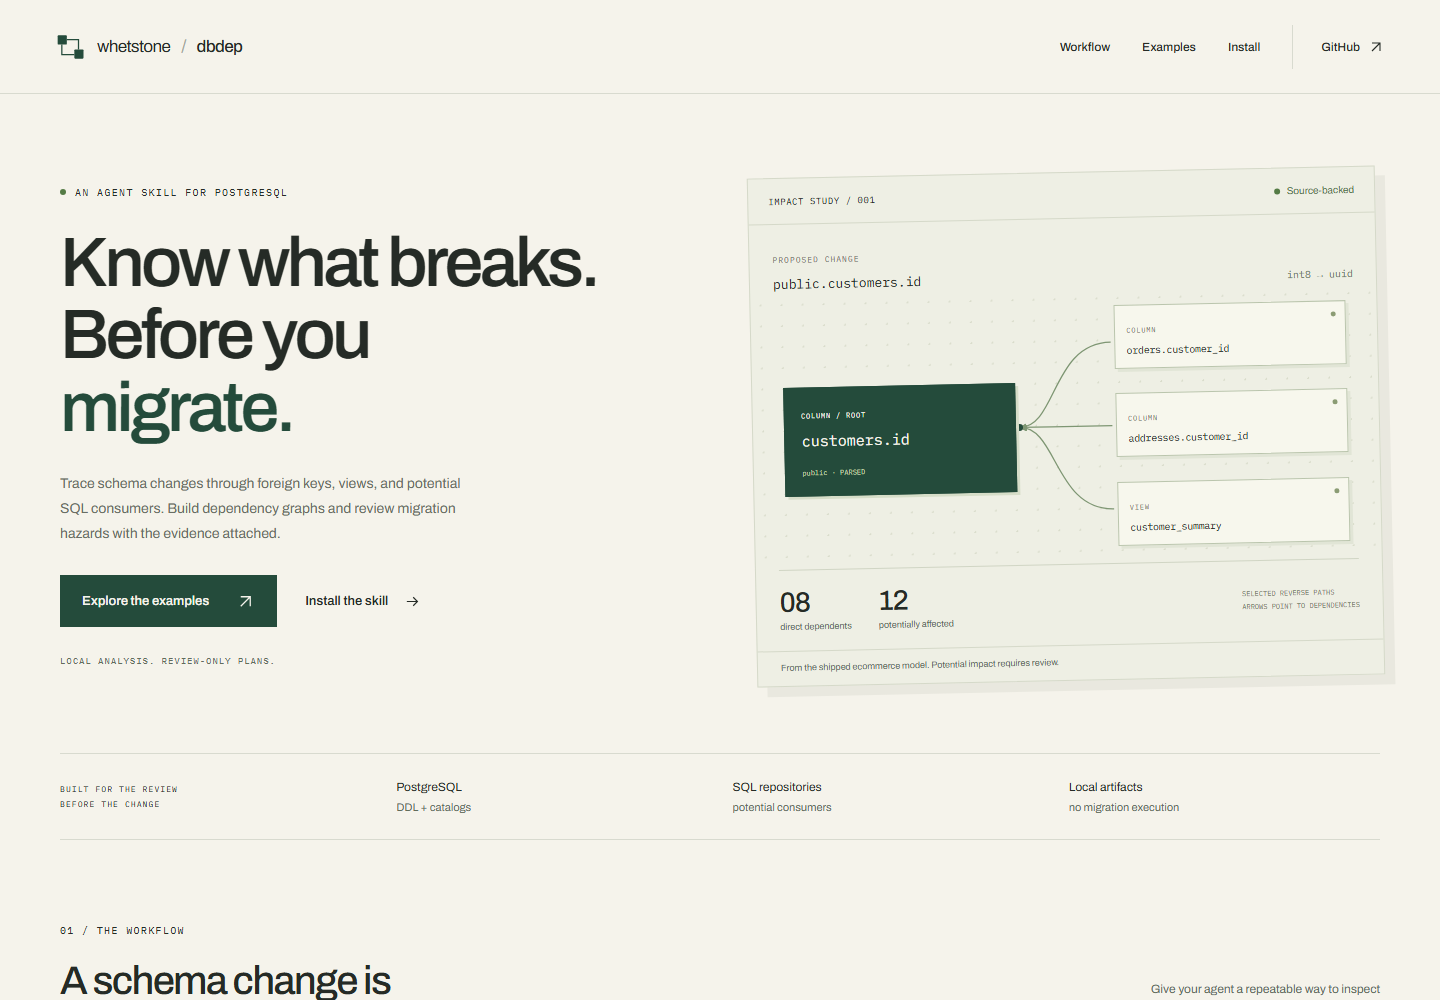
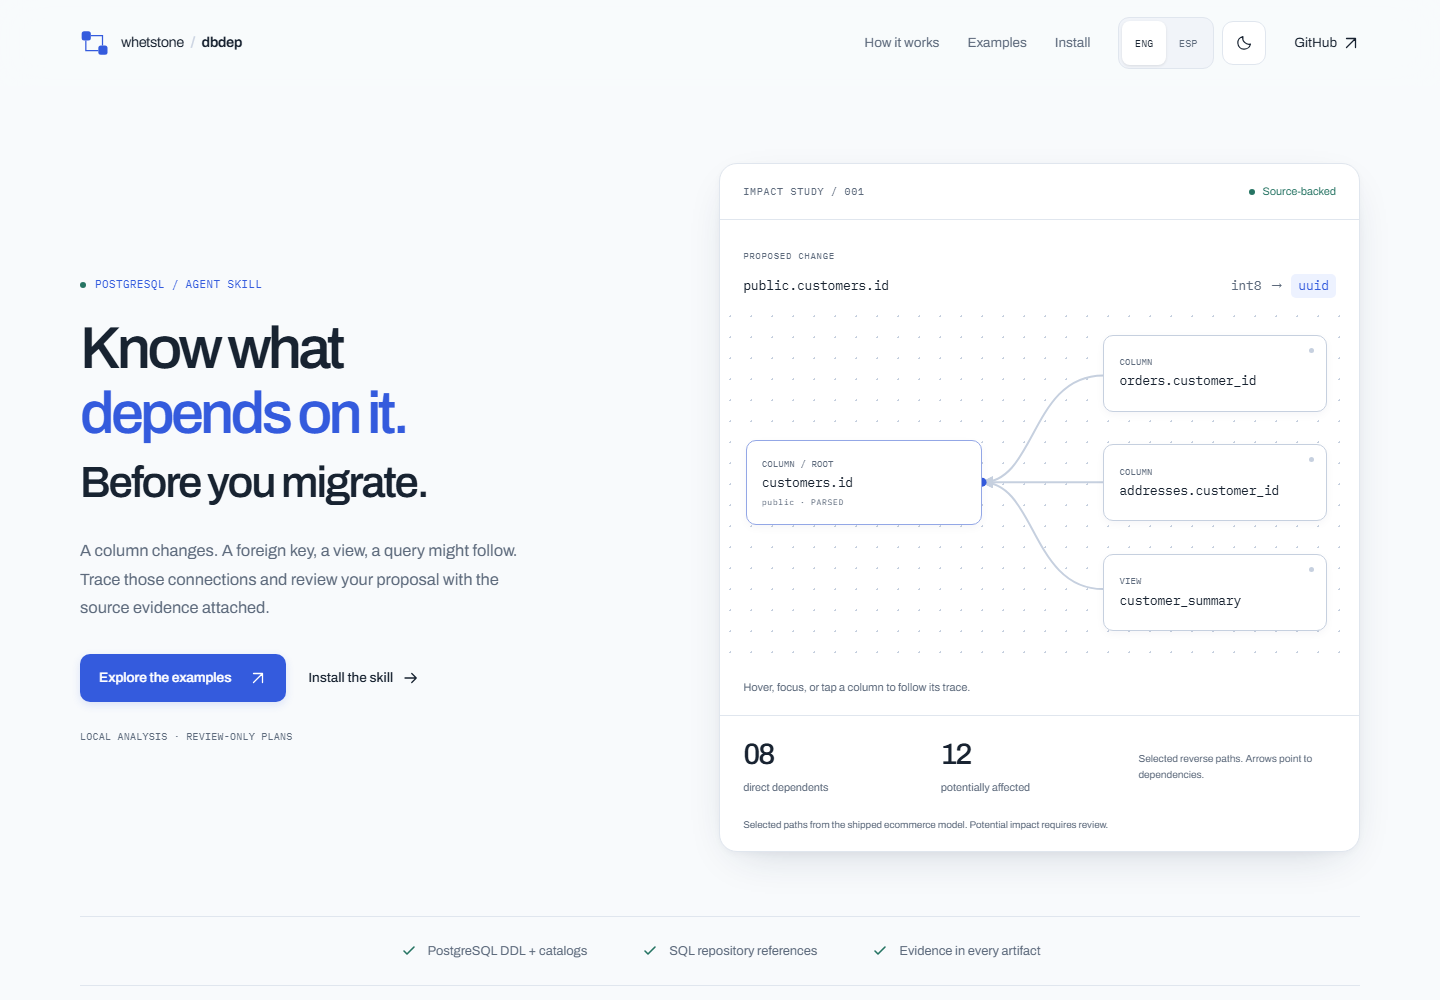
✅ test: cover webpage preferences traces and accessible motion
Added browser regressions for persistent themes and languages, blocked storage, system theme, hover/focus/touch traces, separate HTML reports, sequential flow replay, immediate native keyboard scrolling, idle/offscreen canvas work, and 200% text resizing within visible graph bounds. Added a reproducible capture script and refreshed actual desktop/mobile screenshots in both themes and Spanish.

Initial missing-feature, keyboard-motion, canvas-idle and clipping checks failed before their fixes. The final full suite passed 103 tests, with two live tests skipped without a DSN; the isolated PostgreSQL fixture run passed both live tests separately. Screenshot inspection and independent reviews confirmed the final behavior.

diff --git a/tests/test_site_browser.py b/tests/test_site_browser.py
@@ -55,30 +55,24 @@ def test_site_reports_keyboard_navigation_and_layout(site_url, viewport, reduced
         page.goto(site_url)
         expect(page.get_by_role("heading", level=1)).to_contain_text("Before you")
         assert page.evaluate("document.documentElement.scrollWidth <= window.innerWidth")
-        frame = page.frame_locator("iframe")
-        tabs = page.get_by_role("tab")
-        tabs.nth(0).scroll_into_view_if_needed()
+        expect(page.locator("iframe")).to_have_count(0)
+        links = page.locator("#examples").get_by_role("link", name="Open HTML report")
         for index, slug in enumerate(("ecommerce", "analytics", "high-traffic")):
-            if index:
-                tabs.nth(index - 1).press("ArrowRight")
-            expect(tabs.nth(index)).to_have_attribute("aria-selected", "true")
-            expect(page.locator("iframe")).to_have_attribute("src", f"./demos/{slug}/report.html")
+            assert links.nth(index).get_attribute("href") == f"./demos/{slug}/report.html"
+            report = context.new_page()
+            report.goto(site_url + f"/demos/{slug}/report.html")
             model = json.loads((ROOT / "examples/rendered" / slug / "model.dbdep.json").read_text())
-            expect(frame.locator(".node")).to_have_count(len(model["nodes"]))
-            expect(page.locator(".demo-toolbar")).to_contain_text(f"{len(model['nodes'])} OBJECTS")
-        frame.locator("[data-tab=findings]").click()
-        expect(frame.locator("#finding-list")).to_contain_text("DDM006")
-        frame.locator("[data-tab=sequence]").click()
-        expect(frame.locator(".phase")).to_have_count(5)
-        tabs.nth(2).press("Home")
-        expect(tabs.nth(0)).to_have_attribute("aria-selected", "true")
-        ecommerce = json.loads((ROOT / "examples/rendered/ecommerce/model.dbdep.json").read_text())
-        expect(frame.locator(".node")).to_have_count(len(ecommerce["nodes"]))
-        if viewport["width"] > 760:
-            with page.expect_download() as download:
-                frame.locator("#export-json").click()
-            assert json.loads(Path(download.value.path()).read_text()) == ecommerce
-        assert page.locator("iframe").get_attribute("sandbox") == "allow-scripts allow-downloads"
+            expect(report.locator(".node")).to_have_count(len(model["nodes"]))
+            if slug == "high-traffic":
+                report.locator("[data-tab=findings]").click()
+                expect(report.locator("#finding-list")).to_contain_text("DDM006")
+                report.locator("[data-tab=sequence]").click()
+                expect(report.locator(".phase")).to_have_count(5)
+            if slug == "ecommerce" and viewport["width"] > 760:
+                with report.expect_download() as download:
+                    report.locator("#export-json").click()
+                assert json.loads(Path(download.value.path()).read_text()) == model
+            report.close()
         assert all(url.startswith(site_url) for url in requests)
         if reduced == "reduce":
             assert not page.locator("html").evaluate("el => el.classList.contains('lenis')")
@@ -92,6 +86,70 @@ def test_site_reports_keyboard_navigation_and_layout(site_url, viewport, reduced
         else:
             assert page.locator("html").evaluate("el => el.classList.contains('lenis')")
         assert not errors
+        browser.close()
+
+
+def test_theme_and_language_preferences_persist(site_url):
+    from playwright.sync_api import expect, sync_playwright
+
+    with sync_playwright() as playwright:
+        browser = playwright.chromium.launch()
+        page = browser.new_page(color_scheme="light", reduced_motion="reduce")
+        page.goto(site_url)
+        expect(page.locator("html")).to_have_attribute("lang", "en")
+        expect(page.locator("html")).to_have_attribute("data-theme", "light")
+        page.get_by_role("button", name="Switch to dark mode").click()
+        expect(page.locator("html")).to_have_attribute("data-theme", "dark")
+        page.get_by_role("button", name="Español").click()
+        expect(page.locator("html")).to_have_attribute("lang", "es")
+        expect(page.get_by_role("heading", level=1)).to_contain_text("Antes de migrar")
+        expect(page.locator("header")).to_contain_text("Ejemplos")
+        page.reload()
+        expect(page.locator("html")).to_have_attribute("data-theme", "dark")
+        expect(page.locator("html")).to_have_attribute("lang", "es")
+        page.get_by_role("button", name="English").click()
+        expect(page.locator("html")).to_have_attribute("lang", "en")
+        page.get_by_role("button", name="Switch to light mode").click()
+        expect(page.locator("html")).to_have_attribute("data-theme", "light")
+        browser.close()
+
+
+def test_impact_hover_and_focus_highlight_the_corresponding_trace(site_url):
+    from playwright.sync_api import expect, sync_playwright
+
+    with sync_playwright() as playwright:
+        browser = playwright.chromium.launch()
+        page = browser.new_page(reduced_motion="reduce")
+        page.goto(site_url)
+        for index in range(3):
+            node = page.locator(".graph-node").nth(index)
+            node.hover()
+            expect(page.locator(".trace[data-active='true']")).to_have_count(1)
+            expect(page.locator(".trace").nth(index)).to_have_attribute("data-active", "true")
+            node.focus()
+            expect(page.locator(".trace").nth(index)).to_have_attribute("data-active", "true")
+        page.locator(".graph-root").focus()
+        expect(page.locator(".trace[data-active='true']")).to_have_count(3)
+        browser.close()
+
+
+def test_examples_open_reports_separately_and_workflow_explains_the_pipeline(site_url):
+    from playwright.sync_api import expect, sync_playwright
+
+    with sync_playwright() as playwright:
+        browser = playwright.chromium.launch()
+        page = browser.new_page(reduced_motion="reduce")
+        page.goto(site_url)
+        expect(page.locator("iframe")).to_have_count(0)
+        links = page.locator("#examples").get_by_role("link", name="Open HTML report")
+        expect(links).to_have_count(3)
+        for index, slug in enumerate(("ecommerce", "analytics", "high-traffic")):
+            assert links.nth(index).get_attribute("href") == f"./demos/{slug}/report.html"
+            response = page.request.get(f"{site_url}/demos/{slug}/report.html")
+            assert response.ok
+            assert "Content-Security-Policy" in response.text()
+        expect(page.locator(".flow-stage[data-on='true']")).to_have_count(4)
+        expect(page.get_by_role("button", name="Replay the flow")).to_be_visible()
         browser.close()
 
 
@@ -148,7 +206,9 @@ def test_keyboard_fragments_arrive_in_one_frame_with_hash_and_focus(site_url, re
         assert sample["hash"] == "#examples", sample
         assert sample["focused"] == "examples", sample
         page.keyboard.press("Tab")
-        expect(page.get_by_role("tab").first).to_be_focused()
+        expect(
+            page.locator("#examples").get_by_role("link", name="Open HTML report").first
+        ).to_be_focused()
         browser.close()
 
 
@@ -231,4 +291,174 @@ def test_built_site_retains_dependency_notices_and_licenses(site_url):
             response = page.request.get(f"{site_url}/licenses/{license_file.name}")
             assert response.ok
             assert response.body() == license_file.read_bytes()
+        browser.close()
+
+
+@pytest.mark.parametrize(
+    "locale,theme,width", [("en", "light", 320), ("es", "dark", 320), ("es", "light", 768)]
+)
+def test_localized_layout_and_touch_traces(site_url, locale, theme, width):
+    from playwright.sync_api import expect, sync_playwright
+
+    with sync_playwright() as playwright:
+        browser = playwright.chromium.launch()
+        page = browser.new_page(
+            viewport={"width": width, "height": 844}, has_touch=True, reduced_motion="reduce"
+        )
+        page.add_init_script(
+            f"localStorage.setItem('dbdep-locale', '{locale}'); localStorage.setItem('dbdep-theme', '{theme}');"
+        )
+        page.goto(site_url)
+        expect(page.locator("html")).to_have_attribute("lang", locale)
+        expect(page.locator("html")).to_have_attribute("data-theme", theme)
+        assert page.evaluate("document.documentElement.scrollWidth <= innerWidth")
+        for control in page.locator(".preferences button").all():
+            box = control.bounding_box()
+            assert box["width"] >= 44 and box["height"] >= 44, box
+        page.locator(".graph-node").nth(1).tap()
+        expect(page.locator(".trace").nth(1)).to_have_attribute("data-active", "true")
+        expect(page.locator(".trace[data-active='true']")).to_have_count(1)
+        expect(page.locator(".trace-caption")).to_contain_text("addresses.customer_id")
+        assert page.locator(".graph-node").nth(1).get_attribute("aria-pressed") == "true"
+        browser.close()
+
+
+def test_preferences_survive_unavailable_storage_and_respect_system_theme(site_url):
+    from playwright.sync_api import expect, sync_playwright
+
+    with sync_playwright() as playwright:
+        browser = playwright.chromium.launch()
+        page = browser.new_page(color_scheme="dark", reduced_motion="reduce")
+        page.add_init_script(
+            "Storage.prototype.getItem = Storage.prototype.setItem = () => { throw new Error('blocked'); };"
+        )
+        errors = []
+        page.on("pageerror", lambda error: errors.append(str(error)))
+        page.goto(site_url)
+        expect(page.locator("html")).to_have_attribute("data-theme", "dark")
+        expect(page.locator("html")).to_have_attribute("lang", "en")
+        page.get_by_role("button", name="Español").click()
+        page.get_by_role("button", name="Activar modo claro").click()
+        expect(page.locator("html")).to_have_attribute("data-theme", "light")
+        expect(page.locator("html")).to_have_attribute("lang", "es")
+        assert not errors
+        browser.close()
+
+
+def test_flow_pointer_replay_and_keyboard_navigation(site_url):
+    from playwright.sync_api import expect, sync_playwright
+
+    with sync_playwright() as playwright:
+        browser = playwright.chromium.launch()
+        page = browser.new_page(viewport={"width": 1440, "height": 1000})
+        page.goto(site_url)
+        page.locator("header").get_by_role("link", name="How it works").focus()
+        page.keyboard.press("Enter")
+        expect(page.locator(".flow-wrapper")).to_have_attribute("data-playing", "false")
+        expect(page.locator(".flow-stage[data-on='true']")).to_have_count(4)
+        replay = page.get_by_role("button", name="Replay the flow")
+        replay.click()
+        expect(page.locator(".flow-wrapper")).to_have_attribute("data-playing", "true")
+        expect(page.locator(".flow-stage[data-on='true']")).to_have_count(4)
+        expect(page.locator(".flow-wrapper")).to_have_attribute("data-playing", "false")
+        replay.focus()
+        replay.press("Enter")
+        expect(page.locator(".flow-wrapper")).to_have_attribute("data-playing", "false")
+        expect(page.locator(".flow-stage[data-on='true']")).to_have_count(4)
+        spanish = page.get_by_role("button", name="Español")
+        spanish.focus()
+        spanish.press("Enter")
+        expect(page.locator("html")).to_have_attribute("lang", "es")
+        assert (
+            page.locator("#workflow .section-head").evaluate("el => getComputedStyle(el).transform")
+            == "none"
+        )
+        browser.close()
+
+
+def test_native_keyboard_scrolling_does_not_animate_sections(site_url):
+    from playwright.sync_api import sync_playwright
+
+    with sync_playwright() as playwright:
+        browser = playwright.chromium.launch()
+        page = browser.new_page(viewport={"width": 1440, "height": 1000})
+        page.goto(site_url)
+        page.evaluate("document.fonts.ready")
+        page.evaluate("""() => {
+            window.keyboardMotion = [];
+            window.watchKeyboard = false;
+            const sample = () => {
+                if (window.watchKeyboard) for (const el of document.querySelectorAll('[data-reveal]')) {
+                    const box = el.getBoundingClientRect();
+                    if (box.top < innerHeight && box.bottom > 0 && Math.abs(new DOMMatrix(getComputedStyle(el).transform).m42) > 0.05)
+                        window.keyboardMotion.push(el.className);
+                }
+                requestAnimationFrame(sample);
+            };
+            requestAnimationFrame(sample);
+        }""")
+        page.keyboard.press("PageDown")
+        page.evaluate("window.watchKeyboard = true")
+        page.wait_for_timeout(500)
+        page.keyboard.press("PageDown")
+        page.wait_for_timeout(500)
+        assert not page.evaluate("window.keyboardMotion")
+        browser.close()
+
+
+@pytest.mark.parametrize("touch", [False, True])
+def test_dot_background_does_no_continuous_idle_or_offscreen_drawing(site_url, touch):
+    from playwright.sync_api import sync_playwright
+
+    with sync_playwright() as playwright:
+        browser = playwright.chromium.launch()
+        page = browser.new_page(
+            viewport={"width": 390 if touch else 1440, "height": 844}, has_touch=touch
+        )
+        page.add_init_script("""window.canvasDraws = 0;
+            const original = CanvasRenderingContext2D.prototype.clearRect;
+            CanvasRenderingContext2D.prototype.clearRect = function(...args) { window.canvasDraws++; return original.apply(this, args); };
+        """)
+        page.goto(site_url)
+        page.evaluate("document.fonts.ready")
+        page.wait_for_timeout(200)
+        page.evaluate("window.canvasDraws = 0")
+        page.wait_for_timeout(400)
+        assert page.evaluate("window.canvasDraws") <= 1
+        page.locator("header").get_by_role("link", name="Install", exact=True).focus()
+        page.keyboard.press("Enter")
+        page.wait_for_timeout(200)
+        page.evaluate("window.canvasDraws = 0")
+        page.wait_for_timeout(400)
+        assert page.evaluate("window.canvasDraws") == 0
+        if touch:
+            assert page.locator(".dot-grid--static").count() == 1
+        browser.close()
+
+
+@pytest.mark.parametrize("locale", ["en", "es"])
+def test_impact_diagram_grows_with_enlarged_text(site_url, locale):
+    from playwright.sync_api import sync_playwright
+
+    with sync_playwright() as playwright:
+        browser = playwright.chromium.launch()
+        page = browser.new_page(viewport={"width": 390, "height": 844}, reduced_motion="reduce")
+        page.add_init_script(f"localStorage.setItem('dbdep-locale', '{locale}');")
+        page.goto(site_url)
+        page.evaluate("document.documentElement.style.fontSize = '200%'")
+        page.evaluate("document.fonts.ready")
+        for node in page.locator(".graph-root, .graph-node").all():
+            graph_box = page.locator(".specimen").bounding_box()
+            node_box = node.bounding_box()
+            assert node_box["x"] >= graph_box["x"]
+            assert node_box["x"] + node_box["width"] <= graph_box["x"] + graph_box["width"]
+            result = node.evaluate("""el => {
+                const box = el.getBoundingClientRect();
+                return Array.from(el.querySelectorAll('strong, .node-kind, .node-meta')).map(child => {
+                    const text = child.getBoundingClientRect();
+                    return { inside: text.top >= box.top && text.bottom <= box.bottom && text.left >= box.left && text.right <= box.right, text: child.textContent };
+                });
+            }""")
+            assert all(item["inside"] for item in result), result
+        assert page.evaluate("document.documentElement.scrollWidth <= innerWidth")
         browser.close()

diff --git a/scripts/capture_site_screenshots.py b/scripts/capture_site_screenshots.py
@@ -1,0 +1,77 @@
+#!/usr/bin/env python3
+"""Capture the built webpage in reproducible themes, languages and viewports."""
+
+import functools
+import http.server
+import json
+import threading
+from pathlib import Path
+
+ROOT = Path(__file__).resolve().parents[1]
+
+
+class QuietHandler(http.server.SimpleHTTPRequestHandler):
+    def log_message(self, *_args):
+        pass
+
+
+def main():
+    from playwright.sync_api import sync_playwright
+
+    built = ROOT / "site/dist"
+    if not (built / "index.html").is_file():
+        raise ValueError("Build site/ before capturing screenshots")
+    destination = ROOT / "site/screenshots"
+    destination.mkdir(exist_ok=True)
+    server = http.server.ThreadingHTTPServer(
+        ("127.0.0.1", 0), functools.partial(QuietHandler, directory=str(built))
+    )
+    thread = threading.Thread(target=server.serve_forever, daemon=True)
+    thread.start()
+    captured = []
+    try:
+        with sync_playwright() as playwright:
+            browser = playwright.chromium.launch()
+            try:
+                variants = [
+                    ("desktop", 1440, 1000, "en", "light"),
+                    ("desktop-dark", 1440, 1000, "en", "dark"),
+                    ("mobile", 390, 844, "en", "light"),
+                    ("mobile-es-dark", 390, 844, "es", "dark"),
+                ]
+                for label, width, height, locale, theme in variants:
+                    page = browser.new_page(
+                        viewport={"width": width, "height": height}, reduced_motion="reduce"
+                    )
+                    page.add_init_script(
+                        f"localStorage.setItem('dbdep-locale', '{locale}');"
+                        f"localStorage.setItem('dbdep-theme', '{theme}');"
+                    )
+                    page.goto(f"http://127.0.0.1:{server.server_port}/")
+                    page.locator("h1").wait_for()
+                    page.evaluate("document.fonts.ready")
+                    if page.evaluate("document.documentElement.scrollWidth > innerWidth"):
+                        raise ValueError(f"Horizontal overflow in {label}")
+
+                    def capture(filename, full=False):
+                        page.screenshot(path=str(destination / filename), full_page=full)
+                        captured.append(filename)
+
+                    capture(f"{label}-hero.png")
+                    capture(f"{label}.png", full=True)
+                    page.locator("#examples").scroll_into_view_if_needed()
+                    capture("examples.png" if label == "desktop" else f"{label}-examples.png")
+                    page.locator("footer").scroll_into_view_if_needed()
+                    capture(f"{label}-footer.png")
+                    page.close()
+            finally:
+                browser.close()
+    finally:
+        server.shutdown()
+        server.server_close()
+        thread.join(timeout=5)
+    print(json.dumps({"captured": captured, "reduced_motion": True, "fonts": "self-hosted"}))
+
+
+if __name__ == "__main__":
+    main()
